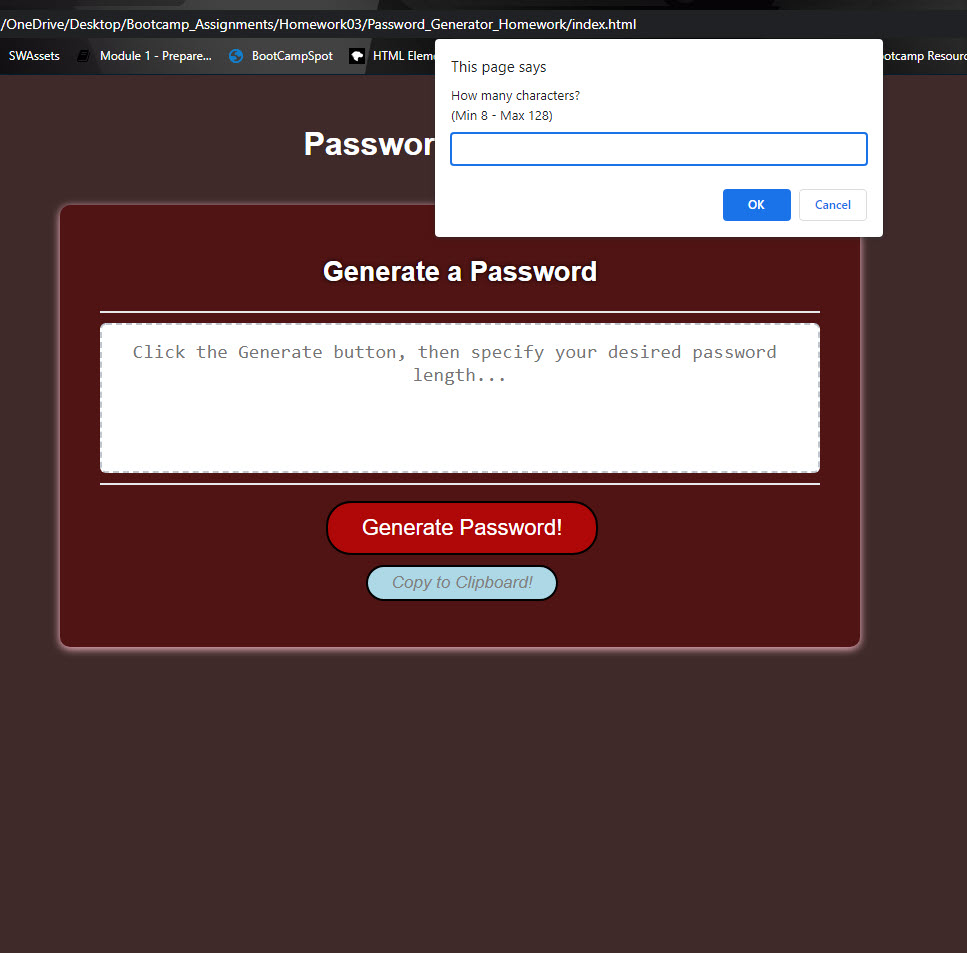
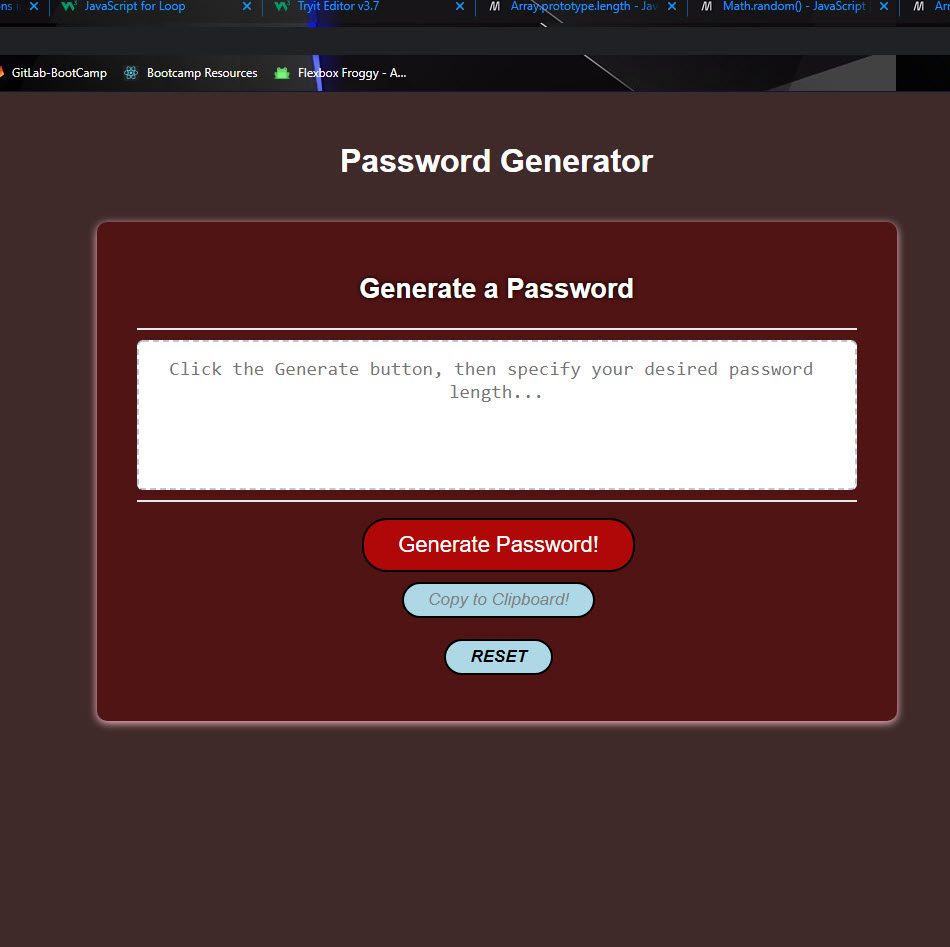
updated readme with new reset function and a new SS

Changed region(s): [[0.0, 0.0, 1.0, 0.7962], [0.9463, 0.2756, 0.9768, 0.735], [0.0305, 0.245, 0.0611, 0.6737]]

diff --git a/README.md b/README.md
@@ -25,7 +25,9 @@ Once confirmed the main page should load, and the user can click on the generate
 - Once clicked the user will be asked to specify a length between 8-128.
 - Once specified the password will be randomly generated using the above criteria.
 
-Lastly, the password generated can be copied into the clipboard using the 'Copy to Clipboard!' button.
+The password generated can be copied into the clipboard using the 'Copy to Clipboard!' button.
+
+Lastly, the page can be reloaded and the criteria reset by clicking on the RESET button.
 
 ## Credits
 Jordan Covarrubias aka "AuraFly"
